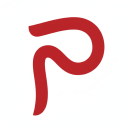
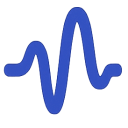
feat: rebrand to Over Tune

diff --git a/src/assets/css/tailwind.css b/src/assets/css/tailwind.css
@@ -1,2 +1,73 @@
+@import url("https://fonts.googleapis.com/css2?family=Exo+2:ital,wght@0,100..900;1,100..900&family=Poppins:ital,wght@0,100;0,200;0,300;0,400;0,500;0,600;0,700;0,800;0,900;1,100;1,200;1,300;1,400;1,500;1,600;1,700;1,800;1,900&display=swap");
+
 @import "tailwindcss";
 @plugin 'tailwind-scrollbar';
+
+@custom-variant dark (&:is(.dark *));
+
+@theme inline {
+  --font-sans: "Poppins", sans-serif;
+  --font-heading: "Exo 2", sans-serif;
+  --color-background: var(--background);
+  --color-foreground: var(--foreground);
+  --color-muted: var(--muted);
+  --color-muted-foreground: var(--muted-foreground);
+  --color-card: var(--card);
+  --color-card-foreground: var(--card-foreground);
+  --color-border: var(--border);
+  --color-ring: var(--ring);
+  --color-primary: var(--primary);
+  --color-primary-foreground: var(--primary-foreground);
+}
+
+:root {
+  --background: oklch(0.98 0.01 250);
+  --foreground: oklch(0.22 0.03 250);
+  --muted: oklch(0.96 0.01 250);
+  --muted-foreground: oklch(0.47 0.03 250);
+  --card: oklch(0.99 0.005 250);
+  --card-foreground: var(--foreground);
+  --border: oklch(0.9 0.01 250);
+  --ring: oklch(0.7 0.05 250);
+  --primary: oklch(0.6 0.11 257);
+  --primary-foreground: oklch(0.98 0.02 257);
+  color-scheme: light;
+}
+
+.dark {
+  --background: oklch(0.14 0.02 257);
+  --foreground: oklch(0.96 0.02 257);
+  --muted: oklch(0.22 0.02 257);
+  --muted-foreground: oklch(0.7 0.03 257);
+  --card: oklch(0.18 0.02 257);
+  --card-foreground: var(--foreground);
+  --border: oklch(0.28 0.02 257);
+  --ring: oklch(0.64 0.08 257);
+  --primary: oklch(0.7 0.12 257);
+  --primary-foreground: oklch(0.12 0.02 257);
+  color-scheme: dark;
+}
+
+@layer base {
+  * {
+    @apply border-border outline-ring/50;
+  }
+  body {
+    @apply bg-background text-foreground font-sans antialiased;
+  }
+}
+
+@layer components {
+  h1,
+  h2,
+  h3,
+  h4,
+  h5,
+  h6 {
+    @apply font-heading;
+  }
+}
+
+.scrollbar-thin {
+  @apply scrollbar-thin scrollbar-thumb-muted-foreground/30 scrollbar-track-transparent;
+}

diff --git a/src/components/Button/index.vue b/src/components/Button/index.vue
@@ -31,24 +31,24 @@ defineEmits<{
 
 const buttonClasses = computed(() => {
   const baseClasses =
-    "rounded-lg font-medium transition-all duration-200 focus:outline-none focus:ring-2 focus:ring-slate-300";
+    "rounded-lg font-medium transition-all duration-200 focus:outline-none focus:ring-2 focus:ring-ring";
 
   const variantClasses = {
     primary:
-      "bg-slate-600 text-white shadow-md hover:bg-slate-700 hover:shadow-lg disabled:bg-slate-400 disabled:cursor-not-allowed",
+      "bg-primary text-primary-foreground shadow-md hover:bg-primary/90 hover:shadow-lg disabled:bg-primary/60 disabled:cursor-not-allowed",
     secondary:
-      "bg-slate-100 text-slate-700 border border-slate-200 hover:bg-slate-200 disabled:bg-slate-50 disabled:text-slate-400",
+      "bg-muted text-foreground border border-border hover:bg-muted/80 disabled:bg-muted disabled:text-muted-foreground",
     ghost:
-      "text-slate-600 hover:bg-slate-200 disabled:text-slate-400 disabled:cursor-not-allowed",
+      "text-foreground hover:bg-muted disabled:text-muted-foreground disabled:cursor-not-allowed",
     control:
-      "rounded-full text-slate-600 hover:bg-slate-200 disabled:opacity-50 disabled:cursor-not-allowed",
-  };
+      "rounded-full text-foreground hover:bg-muted disabled:opacity-50 disabled:cursor-not-allowed",
+  } as const;
 
   const sizeClasses = {
     sm: "px-2 py-1 text-xs",
     md: "px-3 py-2 text-sm",
     lg: "px-4 py-3 text-sm",
-  };
+  } as const;
 
   const widthClasses = props.fullWidth
     ? "w-full flex items-center justify-center gap-2"

diff --git a/src/components/NowPlaying/index.vue b/src/components/NowPlaying/index.vue
@@ -37,25 +37,25 @@ const progress = computed(
 </script>
 <template>
   <div
-    class="flex w-full flex-col justify-center gap-4 rounded-xl border border-slate-200 bg-slate-100 p-4 shadow-sm"
+    class="border-border bg-card flex w-full flex-col justify-center gap-4 rounded-xl border p-4 shadow-sm"
   >
     <div class="flex items-center gap-4">
       <Image :artwork="current.track.artwork" />
       <div class="flex-1 overflow-hidden">
-        <h3 class="truncate text-sm font-semibold text-slate-800">
+        <h3 class="text-foreground truncate text-sm font-semibold">
           {{ current.track.title }}
         </h3>
-        <p class="truncate text-xs text-slate-500">
+        <p class="text-muted-foreground truncate text-xs">
           {{ current.track.artist }}
         </p>
         <div class="mt-2">
-          <div class="h-1 w-full overflow-hidden rounded-full bg-slate-200">
+          <div class="bg-muted h-1 w-full overflow-hidden rounded-full">
             <div
               :style="{ width: `${progress}%` }"
-              class="h-full rounded-full bg-slate-500 transition-all duration-300"
+              class="bg-primary h-full rounded-full transition-all duration-300"
             ></div>
           </div>
-          <div class="mt-1 flex justify-between text-xs text-slate-400">
+          <div class="text-muted-foreground mt-1 flex justify-between text-xs">
             <span>{{ formatTime(current.progress) }}</span>
             <span>{{ formatTime(current.duration) }}</span>
           </div>

diff --git a/src/App.vue b/src/App.vue
@@ -6,7 +6,7 @@ import OutputSelect from "@/components/OutputSelect/index.vue";
 import { COMMANDS, makeMsg } from "@/constants";
 import type { MediaInfo } from "@/types";
 import { openShortcuts, sendBroadcast, sendToContent } from "@/utils/chrome";
-import { Settings2 } from "lucide-vue-next";
+import { BadgeQuestionMark, Settings2 } from "lucide-vue-next";
 import { onMounted, ref } from "vue";
 
 const current = ref<MediaInfo>();
@@ -29,11 +29,13 @@ const handleActions = (action: string) => {
 </script>
 <template>
   <div
-    class="flex h-[600px] w-80 flex-col rounded-xl border border-slate-200 bg-slate-50 p-4 shadow-lg"
+    class="border-border bg-card flex h-[600px] w-80 flex-col border p-4 shadow-lg"
   >
-    <div class="mb-6 flex items-center justify-center gap-3">
-      <img src="/icon128.png" alt="icon" class="size-8 rounded-lg" />
-      <h1 class="text-2xl font-bold text-slate-800">YTM Plus</h1>
+    <div class="mb-6 flex items-center justify-between gap-3">
+      <img src="/logo.png" alt="icon" class="h-10 rounded-lg" />
+      <Button size="md" variant="secondary" class="rounded-full">
+        <BadgeQuestionMark class="size-4" />
+      </Button>
     </div>
     <div class="mb-6">
       <NowPlaying

diff --git a/src/components/OutputSelect/index.vue b/src/components/OutputSelect/index.vue
@@ -1,19 +1,19 @@
 <template>
   <div class="mb-4">
-    <div class="flex items-center justify-between rounded-lg bg-slate-100 p-3">
-      <span class="text-sm font-medium text-slate-700">Output Device</span>
+    <div class="bg-muted flex items-center justify-between rounded-lg p-3">
+      <span class="text-foreground text-sm font-medium">Output Device</span>
       <div class="flex items-center gap-2">
-        <div class="h-2 w-2 rounded-full bg-green-400"></div>
+        <div class="size-2 rounded-full bg-green-400"></div>
         <select
           v-model="selectedDevice"
           @change="onDeviceChange"
-          class="rounded border-0 bg-transparent text-xs text-slate-500 focus:ring-0 focus:outline-none"
+          class="text-muted-foreground rounded border-0 bg-transparent text-xs focus:ring-0 focus:outline-none"
         >
           <option
             v-for="device in devices"
             :key="device.id"
             :value="device.id"
-            class="bg-slate-100 text-slate-700"
+            class="bg-muted text-foreground"
           >
             {{ device.name }}
           </option>

diff --git a/src/utils/chrome.ts b/src/utils/chrome.ts
@@ -1,5 +1,6 @@
 import { COMMANDS, KEYS, URLS } from "@/constants";
 import type { Keybind, MessageContent } from "@/types";
+import { isDefined } from ".";
 
 export const openShortcuts = () => {
   return chrome.tabs.create({ url: URLS.SHORTCUTS });
@@ -38,13 +39,15 @@ export function getKeybinds(): Promise<Keybind[]> {
   return new Promise((resolve) => {
     chrome.commands.getAll((commands) => {
       const keybinds: Keybind[] = commands
-        .map((cmd, idx) => {
+        .map((cmd) => {
+          if (!cmd.name || !cmd.description) return null;
           return {
+            name: cmd.name,
+            action: cmd.description,
             key: cmd.shortcut || "Unset",
-            name: cmd.name || `custom-${idx + 1}`,
-            action: cmd.description || `Custom action ${idx + 1}`,
           };
         })
+        .filter(isDefined)
         .reverse()
         .sort((a) => (a.key !== "Unset" ? -1 : 1));
       resolve(keybinds);

diff --git a/src/components/Keybinds/item.vue b/src/components/Keybinds/item.vue
@@ -7,15 +7,15 @@ defineProps<{
 </script>
 
 <template>
-  <div class="flex items-center justify-between rounded-lg bg-slate-100 p-3">
+  <div class="bg-muted flex items-center justify-between rounded-lg p-3">
     <div class="flex items-center gap-3">
-      <div class="flex size-8 items-center justify-center rounded bg-slate-200">
+      <div class="bg-muted/70 flex size-8 items-center justify-center rounded">
         <Command class="size-4" v-if="keybind.key !== 'Unset'" />
       </div>
-      <span class="text-sm text-slate-700 capitalize">{{
+      <span class="text-foreground text-sm capitalize">{{
         keybind.action
       }}</span>
     </div>
-    <span class="text-xs text-slate-500">{{ keybind.key }}</span>
+    <span class="text-muted-foreground text-xs">{{ keybind.key }}</span>
   </div>
 </template>

diff --git a/manifest.config.ts b/manifest.config.ts
@@ -3,7 +3,7 @@ import { defineManifest } from "@crxjs/vite-plugin";
 
 export default defineManifest({
   manifest_version: 3,
-  name: "YTM Plus",
+  name: "Over Tune",
   version: "1.0.0",
   icons: {
     "16": "icon16.png",
@@ -11,7 +11,7 @@ export default defineManifest({
     "128": "icon128.png",
   },
   action: {
-    default_title: "YTM Plus",
+    default_title: "Over Tune",
     default_popup: "index.html",
     default_icon: {
       "16": "icon16.png",

diff --git a/src/plugins/color-mode.ts b/src/plugins/color-mode.ts
@@ -1,0 +1,17 @@
+import type { App } from "vue";
+
+export default {
+  install(app: App) {
+    const media = window.matchMedia("(prefers-color-scheme: dark)");
+    const apply = () => {
+      document.documentElement.classList.toggle("dark", media.matches);
+    };
+    apply();
+    media.addEventListener("change", apply);
+    app.mixin({
+      unmounted() {
+        media.removeEventListener("change", apply);
+      },
+    });
+  },
+};

diff --git a/src/components/Keybinds/index.vue b/src/components/Keybinds/index.vue
@@ -12,7 +12,7 @@ onMounted(async () => {
 
 <template>
   <div class="flex flex-1 flex-col overflow-hidden">
-    <h3 class="mb-3 text-sm font-semibold text-slate-700">Key Binds</h3>
+    <h3 class="text-foreground mb-3 text-sm font-semibold">Key Binds</h3>
     <div class="scrollbar-thin flex-1 space-y-2 overflow-y-auto">
       <KeybindItem
         :keybind="keybind"

diff --git a/src/components/NowPlaying/image.vue b/src/components/NowPlaying/image.vue
@@ -16,8 +16,8 @@ defineProps<{
   />
   <div
     v-else
-    class="flex size-14 items-center justify-center rounded-lg bg-slate-300 shadow-md"
+    class="bg-muted flex size-14 items-center justify-center rounded-lg shadow-md"
   >
-    <Music class="size-6 text-slate-600" />
+    <Music class="text-foreground/70 size-6" />
   </div>
 </template>

diff --git a/index.html b/index.html
@@ -4,7 +4,7 @@
     <meta charset="UTF-8" />
     <link rel="icon" type="image/png" href="/icon128.png" />
     <meta name="viewport" content="width=device-width, initial-scale=1.0" />
-    <title>ytm-plus</title>
+    <title>Over Tune</title>
   </head>
   <body>
     <div id="app"></div>
